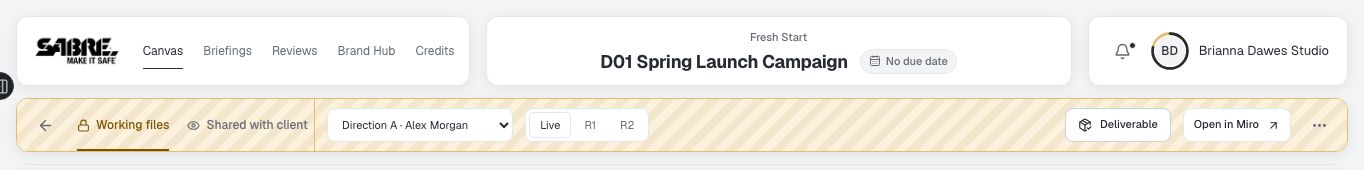
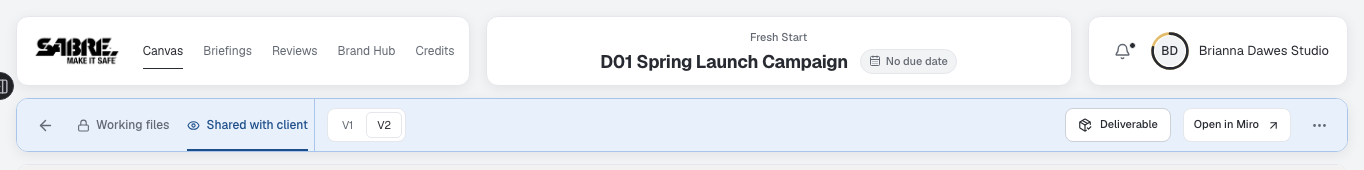
fix: show Deliverable on the client channel only and hide Deliverables from designers
The Miro bar's Deliverable link now appears only on the client channel
(the client and the agency's Shared with client view), not on Working
files. Designers no longer get the Brand Hub Deliverables tab, its page,
or the Project details Deliverables link.

Changed region(s): [[0.0, 0.5588, 1.0, 0.9118]]

diff --git a/apps/web/features/brand/brand-page.test.tsx b/apps/web/features/brand/brand-page.test.tsx
@@ -1,0 +1,45 @@
+import { render, screen } from "@testing-library/react";
+import { beforeEach, describe, expect, it, vi } from "vitest";
+import { BrandPage } from "./brand-page";
+
+const fixture = vi.hoisted(() => ({ role: "agency" }));
+vi.mock("@/features/auth/auth-provider", () => ({
+  useAuth: () => ({ profile: { role: fixture.role } }),
+}));
+vi.mock("@/features/workspace/workspace-data", () => ({
+  useClients: () => ({ isPending: false, data: [{ id: "client", name: "SABRE" }] }),
+}));
+vi.mock("./brand-data", () => ({
+  useBrandSections: () => ({ isPending: false, data: [] }),
+}));
+vi.mock("./brand-sections", () => ({ BrandSectionContent: () => null }));
+vi.mock("@/features/assets/assets-page", () => ({
+  AssetsPage: () => <p>Deliverables content</p>,
+}));
+
+beforeEach(() => {
+  fixture.role = "agency";
+});
+
+describe("Brand Hub sections by role", () => {
+  it("offers Deliverables to the studio and the client", () => {
+    for (const role of ["agency", "client"]) {
+      fixture.role = role;
+      const { unmount } = render(<BrandPage clientId="client" section="files" />);
+      expect(screen.getByRole("link", { name: "Deliverables" })).toBeInTheDocument();
+      expect(screen.getByText("Deliverables content")).toBeInTheDocument();
+      unmount();
+    }
+  });
+
+  it("keeps Deliverables away from a designer, by tab and by address", () => {
+    fixture.role = "designer";
+    const { unmount } = render(<BrandPage clientId="client" section="overview" />);
+    expect(screen.getByRole("link", { name: "Assets" })).toBeInTheDocument();
+    expect(screen.queryByRole("link", { name: "Deliverables" })).toBeNull();
+    unmount();
+    render(<BrandPage clientId="client" section="files" />);
+    expect(screen.getByRole("heading", { name: "Brand Hub unavailable." })).toBeInTheDocument();
+    expect(screen.queryByText("Deliverables content")).toBeNull();
+  });
+});

diff --git a/apps/web/tests/e2e/deliverables.spec.ts b/apps/web/tests/e2e/deliverables.spec.ts
@@ -7,7 +7,7 @@ import { credentials, localAdmin, localAgency, signIn } from "./test-support";
 const uploadPath = fileURLToPath(new URL("../fixtures/campaign-preview.png", import.meta.url));
 const driveUrl = "https://drive.google.com/drive/folders/acceptance-deliverable-backup";
 
-test("the agency adds a deliverable with its Google Drive backup; only the agency adds one", async ({
+test("the agency adds a deliverable with its Google Drive backup; designers never see the section", async ({
   page,
   browser,
 }) => {
@@ -64,8 +64,16 @@ test("the agency adds a deliverable with its Google Drive backup; only the agenc
 
     const designerPage = await designerContext.newPage();
     await signIn(designerPage, credentials.designer);
+    // Designers work in Miro: no Deliverables tab, and its address shows the unavailable page.
+    await designerPage.goto(`/clients/${fixture.clientId}/brand/overview`);
+    await expect(
+      designerPage.getByRole("navigation", { name: "Brand sections" }).getByRole("link"),
+    ).not.toContainText(["Deliverables"]);
     await designerPage.goto(deliverablesUrl);
-    await expect(designerPage.getByRole("button", { name: "Delivery file" })).toHaveCount(0);
+    await expect(
+      designerPage.getByRole("heading", { name: "Brand Hub unavailable." }),
+    ).toBeVisible();
+    await expect(designerPage.locator(".file-card")).toHaveCount(0);
   } finally {
     await designerContext.close();
     await cleanupTestProject(fixture.projectId);

diff --git a/apps/web/features/projects/miro-workspace-bar.test.tsx b/apps/web/features/projects/miro-workspace-bar.test.tsx
@@ -139,7 +139,7 @@ describe("MiroWorkspaceBar in Working files", () => {
     expect(screen.queryByRole("button", { name: "New client version" })).toBeNull();
     expect(screen.getByRole("group", { name: "Client versions" })).toBeInTheDocument();
   });
-  it("links a delivered project to its final files, and nothing before delivery", () => {
+  it("links a delivered project to its final files on the client channel only", () => {
     const href = "/clients/c/brand/files?project=p";
     const { rerender } = render(<MiroWorkspaceBar {...props({ deliverableHref: href })} />);
     expect(screen.queryByRole("link", { name: "Deliverable" })).toBeNull();
@@ -150,6 +150,9 @@ describe("MiroWorkspaceBar in Working files", () => {
     );
     expect(screen.getByRole("link", { name: "Deliverable" })).toHaveAttribute("href", href);
     rerender(<MiroWorkspaceBar {...props({ delivered: true, deliverableHref: null })} />);
+    expect(screen.queryByRole("link", { name: "Deliverable" })).toBeNull();
+    // Working files is the studio's internal view: the deliverable belongs to the client channel.
+    rerender(<MiroWorkspaceBar {...props({ delivered: true, deliverableHref: href })} />);
     expect(screen.queryByRole("link", { name: "Deliverable" })).toBeNull();
   });
   it("shows the agency the board's internal due date on the board's row", () => {

diff --git a/apps/web/features/brand/brand-page.tsx b/apps/web/features/brand/brand-page.tsx
@@ -28,7 +28,16 @@ export function BrandPage({ clientId, section }: { clientId: string; section: st
   useScrollRow(sectionNav, `${section}:${Boolean(client && sections.data)}`);
   if (clients.isPending || sections.isPending)
     return <PageStatus>Loading the Brand Hub…</PageStatus>;
-  if (!client || sections.error || !isBrandSection(section))
+  // Deliverables are the client's final files; designers work in Miro and never see the section.
+  const navigation = brandNavigation.filter(
+    (item) => item.id !== "files" || profile?.role !== "designer",
+  );
+  if (
+    !client ||
+    sections.error ||
+    !isBrandSection(section) ||
+    !navigation.some((item) => item.id === section)
+  )
     return (
       <div className="page-content">
         <h1>Brand Hub unavailable.</h1>
@@ -60,7 +69,7 @@ export function BrandPage({ clientId, section }: { clientId: string; section: st
             className="brand-section-nav section-tabs card-heading-tools"
             aria-label="Brand sections"
           >
-            {brandNavigation.map((item) => (
+            {navigation.map((item) => (
               <Link
                 key={item.id}
                 href={`/clients/${clientId}/brand/${item.id}`}

diff --git a/apps/web/features/projects/miro-workspace-bar.tsx b/apps/web/features/projects/miro-workspace-bar.tsx
@@ -40,8 +40,9 @@ export type MiroWorkspaceBarProps = {
    */
   driveUrl: string | null;
   /**
-   * Where a delivered project's final files are: its Files view. Shown beside Open in Miro so the
-   * delivered work is one click from the board; left out for designers and undelivered projects.
+   * Where a delivered project's final files are: its Deliverables. Shown beside Open in Miro on the
+   * client channel only (the client, and the agency's Shared with client view), so the delivered
+   * work is one click from the version it came from; never on Working files or for designers.
    */
   deliverableHref?: string | null;
 };
@@ -68,7 +69,7 @@ export function MiroWorkspaceBar(props: MiroWorkspaceBarProps) {
       lead={props.lead}
       link={shown}
       primary={
-        props.delivered && props.deliverableHref ? (
+        props.delivered && !internal && props.deliverableHref ? (
           <Link className="button" href={props.deliverableHref}>
             <PackageCheck size={14} aria-hidden="true" />
             <span className="miro-bar-open-label">Deliverable</span>

diff --git a/apps/web/features/projects/project-details.tsx b/apps/web/features/projects/project-details.tsx
@@ -300,13 +300,15 @@ export function ProjectDetails({
             Brand direction
             <ArrowUpRight size={14} />
           </Link>
-          <Link
-            className="button quiet"
-            href={`/clients/${project.client_id}/brand/files?project=${project.id}`}
-          >
-            Deliverables
-            <ArrowUpRight size={14} />
-          </Link>
+          {!designer && (
+            <Link
+              className="button quiet"
+              href={`/clients/${project.client_id}/brand/files?project=${project.id}`}
+            >
+              Deliverables
+              <ArrowUpRight size={14} />
+            </Link>
+          )}
           {profile?.role !== "designer" && (
             <CopyButton
               text={shareLink}

diff --git a/apps/web/features/assets/README.md b/apps/web/features/assets/README.md
@@ -6,6 +6,11 @@ agency's **Delivery file** action sits top right of that card (`shared/header-ac
 search plus, in a campaign, a project `<select>` form one `.hub-toolbar` row below it. Results —
 campaign folders, or a campaign's deliverables in one card per project — follow.
 
+The section is for the studio and the client only. Designers work in Miro: `brand-page.tsx` leaves
+the tab out of their Brand Hub and shows its unavailable page at the address, and Project details
+omits their Deliverables link. (Row-level security still lets an assigned designer read a released
+delivery; the section is hidden, not a new permission.)
+
 Work in progress lives in Miro, so this section lists final delivery files (`delivery_files`) only:
 no working files, no All files/Approved toggle (every deliverable is approved) and no design copies.
 Deliverables at `/clients/:clientId/brand/files` (the old `/clients/:clientId/assets` redirects there, keeping its query)
@@ -112,9 +117,10 @@ against counts read through each role's own session, the Back button and back ar
 links, unknown campaigns, axe, and that a campaign opened from far down the phone folder list starts
 at its title. `tests/e2e/deliverables.spec.ts` adds a deliverable with a Drive backup on a
 disposable approved project, rejects a non-Drive link, downloads the file, reads the saved
-`client` Drive row and checks a designer gets no upload action.
+`client` Drive row and checks a designer has neither the tab nor the page.
 
 Delivery preparation and Complete delivery are unavailable for Backlog projects. The database
 rechecks Active activity, the latest approved client version and real final files under the project
 lock. Prepare delivery in the project action bar navigates to the filtered Deliverables page, and a
-delivered project's Miro bar links there with **Deliverable**.
+delivered project's Miro bar links there with **Deliverable** on the client channel only — the
+client's view and the agency's Shared with client — never on Working files.

diff --git a/docs/verification/page-consistency-2026-09-28.md b/docs/verification/page-consistency-2026-09-28.md
@@ -13,8 +13,10 @@ funnel dataset (web :3003).
 2. **Help & support** removed from the sidebar.
 3. **List sort** cycles ascending → descending → default order; Status steps through the statuses
    present and then returns to the default order.
-4. **Delivered projects** show a **Deliverable** link beside Open in Miro (agency and client), opening
-   the project's Deliverables.
+4. **Delivered projects** show a **Deliverable** link beside Open in Miro on the client channel only
+   (the client, and the agency's Shared with client view — not Working files), opening the project's
+   Deliverables. Follow-up the same day: designers no longer see the Deliverables tab, page or
+   Project details link.
 5. **Brand Hub** puts every section's actions in the title card (`shared/header-actions.tsx`) with the
    tabs below, and search/filters in one `.hub-toolbar` row. **Files is now Deliverables**: delivery
    files only (working files and the All/Approved toggle retired), one card per project, and the

diff --git a/apps/web/features/brand/README.md b/apps/web/features/brand/README.md
@@ -55,7 +55,7 @@ top and the section tabs below. Each section places its actions — **Edit …**
 folder / Add link / Add files**, Deliverables' **Delivery file** — through
 `shared/header-actions.tsx`, so they always sit top right of the card; search and filters form one
 `.hub-toolbar` row under it. The tab that used to read Files is **Deliverables**
-(`features/assets`).
+(`features/assets`); designers do not get it, and its address shows them the unavailable page.
 
 ## Assets and folders
 
